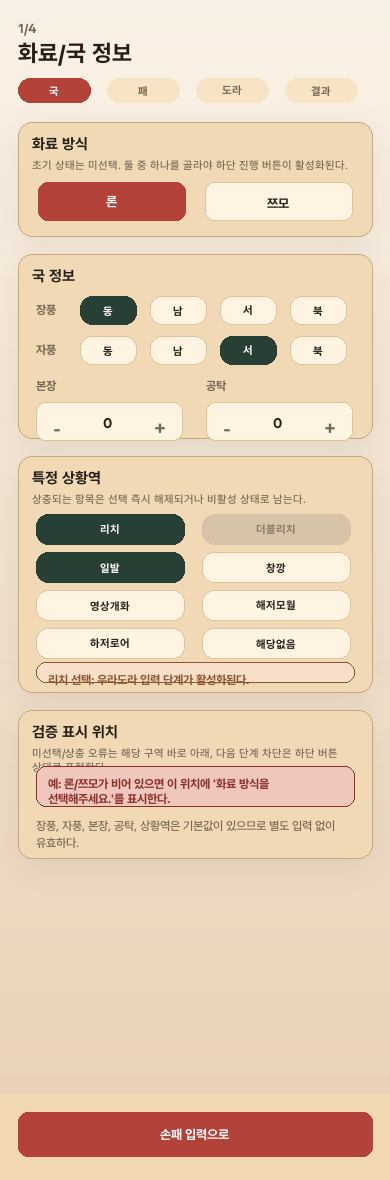
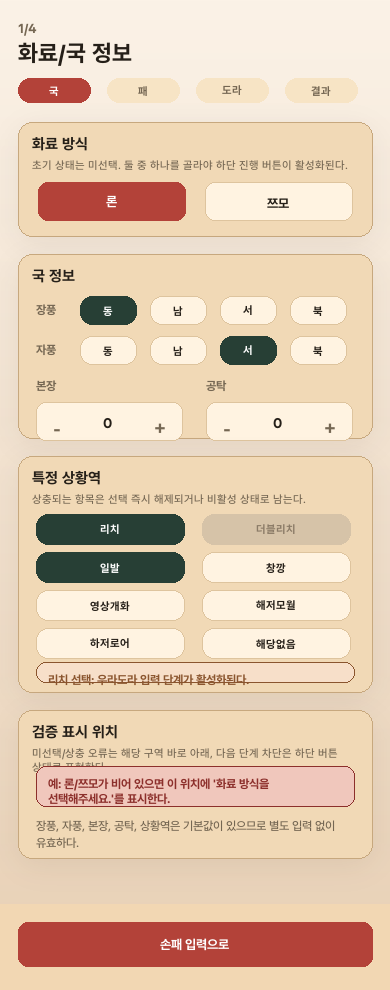
Refine mobile wireframe spacing and states

diff --git a/work/create_fu_calculator_mvp_wireframes.py b/work/create_fu_calculator_mvp_wireframes.py
@@ -341,8 +341,27 @@ def slot(draw: ImageDraw.ImageDraw, x: int, y: int, label: str, filled: bool = F
         center(draw, (x, y + 40, x + 50, y + 60), label, 9, STYLE["muted"], "medium")
 
 
+def tile_slot(
+    base: Image.Image,
+    draw: ImageDraw.ImageDraw,
+    x: int,
+    y: int,
+    label: str,
+    filename: str | None = None,
+    warn: bool = False,
+) -> None:
+    line = STYLE["error"] if warn else STYLE["line"]
+    rr(draw, (x, y, x + 50, y + 62), STYLE["control"], line, 2 if warn else 1, 10)
+    if filename:
+        tile(base, x + 14, y + 8, filename, 0.18)
+        center(draw, (x, y + 42, x + 50, y + 60), label, 9, STYLE["muted"], "bold")
+        return
+    center(draw, (x, y + 7, x + 50, y + 43), "+", 22, STYLE["muted"], "bold")
+    center(draw, (x, y + 40, x + 50, y + 60), label, 9, STYLE["muted"], "medium")
+
+
 def page1() -> Path:
-    height = 1180
+    height = 990
     img = make_canvas(height)
     d = ImageDraw.Draw(img)
     nav(d, 1, "화료/국 정보")
@@ -394,7 +413,7 @@ def page1() -> Path:
 
 
 def page2() -> Path:
-    height = 1640
+    height = 1490
     img = make_canvas(height)
     d = ImageDraw.Draw(img)
     nav(d, 2, "손패 입력", back=True, recent=True)
@@ -470,24 +489,26 @@ def page3() -> Path:
     progress(d, 78, 3)
 
     y = 122
-    panel(img, d, (18, y, 372, y + 248), "깡 직후 판정", "질문은 도라 입력보다 먼저. 필요할 때만 추가 질문을 열어 판단 문구를 확정한다.")
-    text(d, (36, y + 56), "마지막 깡 직후에 화료했나요?", 15, STYLE["text"], "bold")
-    button(d, (36, y + 86, 178, y + 124), "예", selected=True)
-    button(d, (194, y + 86, 336, y + 124), "아니오")
-    text(d, (36, y + 146), "추가 질문", 12, STYLE["muted"], "bold")
-    chip(d, (36, y + 170, 178, y + 202), "암깡 777삭", selected=True)
-    chip(d, (194, y + 170, 336, y + 202), "명깡 동동동동")
-    alert(d, (36, y + 214, 354, y + 236), "해당 깡으로 인한 도라와 우라도라는 인정됩니다.", "warn")
+    panel(img, d, (18, y, 372, y + 276), "깡 직후 판정", "질문은 도라 입력보다 먼저. 필요할 때만 추가 질문을 열어 판단 문구를 확정한다.")
+    text(d, (36, y + 72), "마지막 깡 직후에 화료했나요?", 15, STYLE["text"], "bold")
+    button(d, (36, y + 104, 178, y + 142), "예", selected=True)
+    button(d, (194, y + 104, 336, y + 142), "아니오")
+    text(d, (36, y + 164), "추가 질문", 12, STYLE["muted"], "bold")
+    chip(d, (36, y + 188, 178, y + 220), "암깡 777삭", selected=True)
+    chip(d, (194, y + 188, 336, y + 220), "명깡 동동동동")
+    alert(d, (36, y + 236, 354, y + 260), "해당 깡으로 인한 도라와 우라도라는 인정됩니다.", "warn")
 
-    y += 266
+    y += 294
     panel(img, d, (18, y, 372, y + 160), "도라 표시패", "첫 칸은 필수. 중간 칸이 비면 이 구역 하단에 경고를 표시한다.")
-    for i, (label, filled) in enumerate([("3통", True), ("6삭", True), ("3", False), ("4", False), ("5", False)]):
-        slot(d, 36 + i * 64, y + 62, label, filled=filled)
+    dora_slots = [("3통", "Pin3.png"), ("6삭", "Sou6.png"), ("3", None), ("4", None), ("5", None)]
+    for i, (label, filename) in enumerate(dora_slots):
+        tile_slot(img, d, 36 + i * 64, y + 62, label, filename)
 
     y += 178
     panel(img, d, (18, y, 372, y + 176), "우라도라 표시패", "리치/더블리치가 있으면 도라 표시패 개수와 같은 수만큼 입력한다.")
-    for i, (label, filled) in enumerate([("남", True), ("4만", True), ("3", False), ("4", False), ("5", False)]):
-        slot(d, 36 + i * 64, y + 62, label, filled=filled)
+    ura_slots = [("남", "Nan.png"), ("4만", "Man4.png"), ("3", None), ("4", None), ("5", None)]
+    for i, (label, filename) in enumerate(ura_slots):
+        tile_slot(img, d, 36 + i * 64, y + 62, label, filename)
     tiny_tag(d, (36, y + 132, 152, y + 154), "리치로 활성")
     text(d, (166, y + 136), "도라 2칸 = 우라 2칸", 12, STYLE["muted"], "bold")
 
@@ -519,7 +540,7 @@ def page3() -> Path:
 
 
 def page4() -> Path:
-    height = 1380
+    height = 1500
     img = make_canvas(height)
     d = ImageDraw.Draw(img)
     nav(d, 4, "결과", back=True, recent=True)
@@ -535,21 +556,20 @@ def page4() -> Path:
     tiny_tag(d, (270, y + 62, 342, y + 86), "공탁 0")
 
     y += 184
-    panel(img, d, (18, y, 372, y + 218), "역 목록", "도라/적도라/깡도라는 도라 N으로 합산. 동점 해석은 아이콘 탭으로 후보를 연다.")
+    panel(img, d, (18, y, 372, y + 270), "역 목록", "도라/적도라/깡도라는 도라 N으로 합산. 동점 해석은 아이콘 탭으로 후보를 연다.")
     yaku = [("리치", "1판"), ("탕야오", "1판"), ("핑후", "1판"), ("도라", "1")]
     for i, (name, han) in enumerate(yaku):
-        yy = y + 58 + i * 34
+        yy = y + 78 + i * 34
         text(d, (38, yy), name, 14, STYLE["text"], "bold")
         text(d, (302, yy), han, 13, STYLE["muted"], "bold")
         if i == 2:
             rr(d, (250, yy - 3, 274, yy + 21), STYLE["control"], STYLE["line"], 1, 8)
             center(d, (250, yy - 3, 274, yy + 21), "?", 12, STYLE["result"], "bold")
-    rr(d, (206, y + 120, 354, y + 192), STYLE["control"], STYLE["result_dark"], 1, 10)
-    text(d, (218, y + 132), "동점 해석", 12, STYLE["text"], "bold")
-    text(d, (218, y + 154), "핑후/간짱 후보", 11, STYLE["muted"], "medium")
-    text(d, (218, y + 172), "최고점 동일", 11, STYLE["muted"], "medium")
+    rr(d, (206, y + 198, 354, y + 252), STYLE["control"], STYLE["result_dark"], 1, 10)
+    text(d, (218, y + 208), "동점 해석", 12, STYLE["text"], "bold")
+    text(d, (218, y + 229), "핑후/간짱 후보 / 최고점 동일", 10, STYLE["muted"], "medium")
 
-    y += 236
+    y += 288
     panel(img, d, (18, y, 372, y + 230), "부수 breakdown", "만관 이상에서는 이 구역을 접고 '부수 무관'으로 축약한다.")
     rows = [
         ("기본부", "+20"),
@@ -572,13 +592,13 @@ def page4() -> Path:
     center(d, (38, y + 114, 352, y + 148), "본장 +0 / 공탁 +0 반영", 12, STYLE["muted"], "bold")
 
     y += 188
-    panel(img, d, (18, y, 372, y + 172), "공유 / 최근계산", "공유는 URL fragment 기반. 최근계산은 최대 20개 하단 시트에서 복원 후 결과로 이동한다.")
-    button(d, (38, y + 58, 174, y + 98), "공유")
-    button(d, (190, y + 58, 352, y + 98), "다시 계산", selected=True)
-    rr(d, (38, y + 116, 352, y + 148), STYLE["control"], STYLE["line"], 1, 10)
-    text(d, (52, y + 124), "#/s/maHJ... fragment 복사", 12, STYLE["muted"], "bold")
+    panel(img, d, (18, y, 372, y + 206), "공유 / 최근계산", "공유는 URL fragment 기반. 최근계산은 최대 20개 하단 시트에서 복원 후 결과로 이동한다.")
+    button(d, (38, y + 82, 174, y + 122), "공유")
+    button(d, (190, y + 82, 352, y + 122), "다시 계산", selected=True)
+    rr(d, (38, y + 144, 352, y + 176), STYLE["control"], STYLE["line"], 1, 10)
+    text(d, (52, y + 152), "#/s/maHJ... fragment 복사", 12, STYLE["muted"], "bold")
 
-    y += 190
+    y += 224
     panel(img, d, (18, y, 372, y + 124), "계산 불가 위치", "오류 결과는 결과 영역 최상단에서 이유를 먼저 보여준다.")
     alert(d, (36, y + 58, 354, y + 96), "계산 불가: 도라만 있고 일반 역이 없습니다.", "error")
 
@@ -897,12 +917,18 @@ def write_notes(include_variants: bool) -> list[Path]:
         "- 관점: 결과 카드 우선순위, 부수 breakdown, 공유/최근계산.",
         "- 발견: 결과 페이지는 계산 불가와 정상 계산의 정보 우선순위가 달라 별도 상태가 필요하다.",
         "- 조치: 정상 계산은 붉은 결과 카드 중심으로, 계산 불가는 보조 상태 PNG와 4페이지 하단 오류 위치로 분리했다.",
+        "",
+        "## 리뷰 005",
+        "",
+        "- 관점: 텍스트 겹침, 카드 높이, 스크롤 부담, 도라/우라 슬롯 판독성.",
+        "- 발견: 3페이지 깡 질문 설명과 질문 문구가 겹쳤고, 4페이지 역 목록/공유 설명이 본문과 충돌했다.",
+        "- 조치: 3페이지 판정 패널 높이와 질문 위치를 조정하고, 도라/우라 슬롯을 실제 패 이미지 슬롯으로 바꿨다. 4페이지 역 목록과 공유 패널의 행 시작점을 내려 겹침을 제거했다.",
     ]
     if include_variants:
         review_lines.extend(
             [
                 "",
-                "## 리뷰 005-104",
+                "## 리뷰 006-105",
                 "",
                 "- 동일 체크리스트 100회 연속 재검토에서 새로 수정할 항목을 찾지 못했다.",
                 "- 체크 범위: 입력 플로우, 사용자가 헷갈릴 지점, 한 손 사용성, 버튼/박스 간격, 카드 높이, 스크롤 부담, 상태 전환, 오류 위치, 도라/깡 질문 순서, 최근계산, 공유, 뒤로가기, 팝오버 닫힘, 시각 완성도, 디자인 톤 일관성, 1~4페이지 정보 흐름.",

diff --git a/outputs/fu-calculator-mvp-self-review-v1.md b/outputs/fu-calculator-mvp-self-review-v1.md
@@ -28,3 +28,9 @@
 - 관점: 결과 카드 우선순위, 부수 breakdown, 공유/최근계산.
 - 발견: 결과 페이지는 계산 불가와 정상 계산의 정보 우선순위가 달라 별도 상태가 필요하다.
 - 조치: 정상 계산은 붉은 결과 카드 중심으로, 계산 불가는 보조 상태 PNG와 4페이지 하단 오류 위치로 분리했다.
+
+## 리뷰 005
+
+- 관점: 텍스트 겹침, 카드 높이, 스크롤 부담, 도라/우라 슬롯 판독성.
+- 발견: 3페이지 깡 질문 설명과 질문 문구가 겹쳤고, 4페이지 역 목록/공유 설명이 본문과 충돌했다.
+- 조치: 3페이지 판정 패널 높이와 질문 위치를 조정하고, 도라/우라 슬롯을 실제 패 이미지 슬롯으로 바꿨다. 4페이지 역 목록과 공유 패널의 행 시작점을 내려 겹침을 제거했다.
